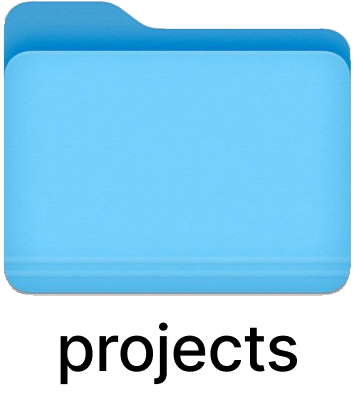
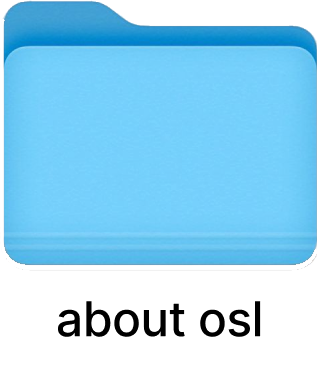
Add files via upload

diff --git a/style.css b/style.css
@@ -44,7 +44,7 @@ body{
 .icon{
     position:absolute;
     cursor:pointer;
-    transform:scale(0.95);   /* 전체 아이콘 크기 90% */
+    transform:scale(0.8);   /* 전체 아이콘 크기 90% */
     transform-origin:center;
     transition:
     transform 0.25s cubic-bezier(.22,1,.36,1),
@@ -63,28 +63,34 @@ body{
 
 /* icons */
 
-.icon2{
-    width:222px;
-    left:100px;
-    top:300px;
-}
-
 .icon1{
-    width:177px;
-    left:180px;
-    top:575px;
+position: absolute;
+width: 160px;
+height: 184.5px;
+left: 118px;
+top: 320px;
 }
 
-.icon4{
-    width:177px;
-    left:430px;
-    top:680px;
+.icon2{
+position: absolute;
+width: 160px;
+height: 185.78px;
+left: 118px;
+top: 500px;
+}
+
+.icon3{
+position: absolute;
+width: 160px;
+height: 185.4px;
+left: 118px;
+top: 680px;
 }
 
 /* typo */
 .typo{
     position:absolute;
-    width:37%;
+    width:35%;
     left:54px;
     top:58px;
 }
@@ -125,13 +131,24 @@ body{
 .popup-content{
     background:white;
     padding:40px;
-    top:7%;
-    left:16%;
     border-radius:14px;
-    min-width:930px;
+
+    left: 3%;
+    top: 7%;
+
+    width:800px;        /* 팝업 기본 가로 크기 */
+    max-width:90vw;     /* 화면보다 커지지 않게 */
+
+    height: 700px;
     min-height:700px;
     text-align:center;
     position:relative;
+}
+
+.popup-img{
+    width:90%;
+    height:auto;
+    display:block;
 }
 
 .close{
@@ -158,6 +175,13 @@ body{
     box-sizing:border-box;
     border-bottom:1px solid rgba(0,0,0,0.06);
 }
+
+.popup-body{
+    height:650px;
+    overflow-y:auto;
+    padding-top:60px;
+}
+
 
 /* mac window buttons */
 .window-buttons{

diff --git a/index.html b/index.html
@@ -13,9 +13,9 @@
 <div class="container">
 
 <!-- icons -->
-    <img src="./img/icon2.png" class="icon icon2">
-    <img src="./img/icon4.png" class="icon icon4">
     <img src="./img/icon1.png" class="icon icon1">
+    <img src="./img/icon2.png" class="icon icon2">
+    <img src="./img/icon3.png" class="icon icon3">
 
 <!-- typo -->
     <img src="./img/typo.png" class="typo">
@@ -56,24 +56,24 @@
 <!-- popup -->
 <div id="popup" class="popup">
 
-<div class="popup-content">
+    <div class="popup-content">
 
-<div class="popup-header">
+        <div class="popup-header">
 
-<div class="window-buttons">
-<span class="btn red"></span>
-<span class="btn yellow"></span>
-<span class="btn green"></span>
-</div>
+            <div class="window-buttons">
+                <span class="btn red"></span>
+                <span class="btn yellow"></span>
+                <span class="btn green"></span>
+            </div>
 
-<div class="window-title">Search</div>
+    <div class="window-title">OSLAB</div>
 
-</div>
+    </div>
 
-<span class="close">&times;</span>
+    <span class="close">&times;</span>
 
-<div class="popup-body">
-<p>팝업 내용</p>
+    <div class="popup-body">
+        <img id="popupImage" src="" class="popup-img">
 </div>
 
 </div>

diff --git a/script.js b/script.js
@@ -86,3 +86,32 @@ if(e.key==="Enter"){
 sendMessage();
 }
 });
+
+
+
+
+const popupImg = document.getElementById("popupImage");
+const closeBtn = document.querySelector(".close");
+
+const icon1 = document.querySelector(".icon1");
+const icon2 = document.querySelector(".icon2");
+const icon3 = document.querySelector(".icon3");
+
+icon1.onclick = function(){
+popup.style.display = "flex";
+popupImg.src = "./img/cont1.png";
+}
+
+icon2.onclick = function(){
+popup.style.display = "flex";
+popupImg.src = "./img/cont2.png";
+}
+
+icon3.onclick = function(){
+popup.style.display = "flex";
+popupImg.src = "./img/cont3.png";
+}
+
+closeBtn.onclick = function(){
+popup.style.display = "none";
+}
